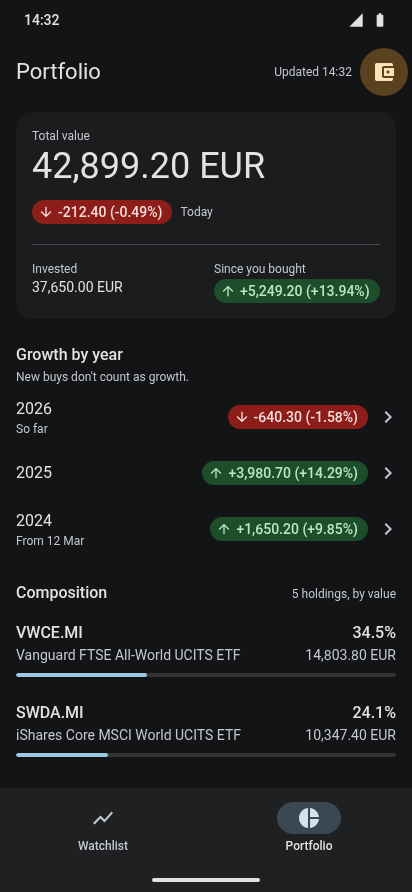
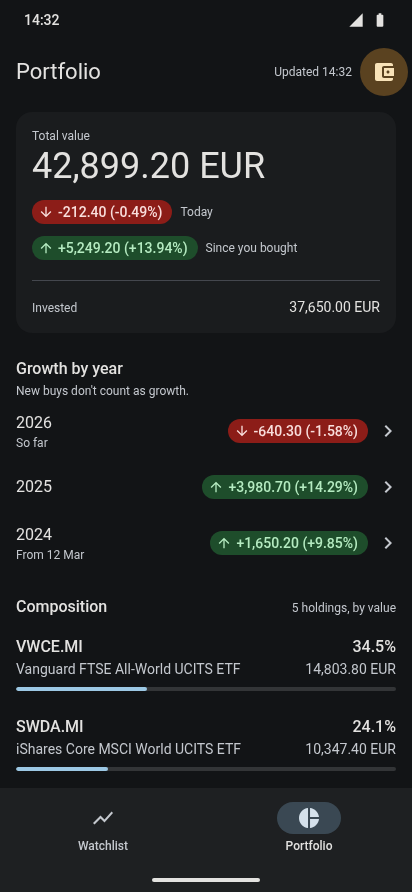
Show both changes on the total card as full-width lines (decision 0053)
The "Since you bought" badge wrapped beside "Invested" on common phone widths.
PortfolioSummary rev 4, the five frames using it re-rendered, and a 360dp check frame.

diff --git a/docs/design/doop/components/PortfolioSummary.html b/docs/design/doop/components/PortfolioSummary.html
@@ -1,27 +1,26 @@
 <!--
-  Component: PortfolioSummary (Doop id c9cyps4s3t, rev 3)
-  M4 (decisions 0049, 0050): the total card at the top of the Portfolio tab.
+  Component: PortfolioSummary (Doop id c9cyps4s3t, rev 4)
+  M4 (decisions 0049, 0050, 0053): the total card at the top of the Portfolio tab.
   Props: view private|public = private.
-           private: "Total value" (shares x latest price, summed) in display-small; today's change (slot today, a
-           ChangeBadge with amount and %); then "Invested" (what the shares still held cost, at their averages) and
-           "Since you bought" (slot since: value - invested, amount and %; was "Since avg", renamed by 0050).
-           public: no amounts: "Your portfolio" / the number of holdings (prop holdings), today's and since-you-bought
-           change in % only.
-         freshness fresh|stale = fresh: stale adds a tertiary line under today's change (prop stale, "2 prices stale
+           private: "Total value" (shares x latest price, summed) in display-small; then two full-width change lines,
+           each a ChangeBadge followed by its label: today's change (slot today, amount and %, label "Today") and the
+           change since you bought (slot since: value - invested, amount and %, label "Since you bought"); then a
+           divider and one line "Invested" (label left, amount right). The badges get the card's full width so they
+           never wrap at the normal font size (rev 3 put Invested and Since you bought side by side: the badge wrapped).
+           public: "Your portfolio" / the number of holdings (prop holdings), the same two change lines in % only, no
+           divider and no Invested line.
+         freshness fresh|stale = fresh: stale adds a tertiary line after the change lines (prop stale, "2 prices stale
            since 10:41") when any price in the total is stale.
          value, invested, holdings, stale: text.
-  The "realized" slot is retired (0050) and always hidden: realized gains are one quiet line at the page's bottom.
-  Wrap in a div with 16px side margins.
+  The "realized" slot is retired (0050) and always hidden. Wrap in a div with 16px side margins.
 -->
-<section class="pfs" data-view="private" data-freshness="fresh" aria-label="Portfolio total" style="padding:var(--spacing-md);border-radius:var(--radius-lg);background:var(--color-surface-container-low);font-family:var(--font-sans);color:var(--color-on-surface);font-variant-numeric:tabular-nums;"><p class="pfs-priv" style="font-size:var(--text-body-small);line-height:var(--leading-body-small);color:var(--color-on-surface-variant);">Total value</p><p class="pfs-priv" data-doop-prop="value" style="font-size:var(--text-display-small);line-height:var(--leading-display-small);">42,899.20 EUR</p><p class="pfs-pub" style="font-size:var(--text-body-small);line-height:var(--leading-body-small);color:var(--color-on-surface-variant);">Your portfolio</p><p class="pfs-pub" data-doop-prop="holdings" style="font-size:var(--text-headline-small);line-height:var(--leading-headline-small);">5 holdings</p><div style="display:flex;align-items:center;gap:var(--spacing-sm);margin-top:var(--spacing-sm);min-height:32px;"><span data-doop-slot="today" data-doop-slot-suggest="ChangeBadge"></span><span style="font-size:var(--text-body-small);line-height:var(--leading-body-small);color:var(--color-on-surface-variant);">Today</span></div><p class="pfs-stale" data-doop-prop="stale" style="margin-top:var(--spacing-sm);font-size:var(--text-body-small);line-height:var(--leading-body-small);color:var(--color-tertiary);">2 prices stale since 10:41</p><dl class="pfs-grid" style="margin-top:var(--spacing-md);padding-top:var(--spacing-md);border-top:1px solid var(--color-outline-variant);"><div class="pfs-inv pfs-priv"><dt style="font-size:var(--text-body-small);line-height:var(--leading-body-small);color:var(--color-on-surface-variant);">Invested</dt><dd data-doop-prop="invested" style="font-size:var(--text-body-medium);line-height:var(--leading-body-medium);">37,650.00 EUR</dd></div><div class="pfs-since"><dt style="font-size:var(--text-body-small);line-height:var(--leading-body-small);color:var(--color-on-surface-variant);margin-bottom:2px;">Since you bought</dt><dd data-doop-slot="since" data-doop-slot-suggest="ChangeBadge"></dd></div><div class="pfs-real pfs-priv"><dt style="font-size:var(--text-body-small);line-height:var(--leading-body-small);color:var(--color-on-surface-variant);margin-bottom:2px;">Realized (gross), all years</dt><dd data-doop-slot="realized" data-doop-slot-suggest="ChangeBadge"></dd></div></dl></section>
+<section class="pfs" data-view="private" data-freshness="fresh" aria-label="Portfolio total" style="padding:var(--spacing-md);border-radius:var(--radius-lg);background:var(--color-surface-container-low);font-family:var(--font-sans);color:var(--color-on-surface);font-variant-numeric:tabular-nums;"><p class="pfs-priv" style="font-size:var(--text-body-small);line-height:var(--leading-body-small);color:var(--color-on-surface-variant);">Total value</p><p class="pfs-priv" data-doop-prop="value" style="font-size:var(--text-display-small);line-height:var(--leading-display-small);">42,899.20 EUR</p><p class="pfs-pub" style="font-size:var(--text-body-small);line-height:var(--leading-body-small);color:var(--color-on-surface-variant);">Your portfolio</p><p class="pfs-pub" data-doop-prop="holdings" style="font-size:var(--text-headline-small);line-height:var(--leading-headline-small);">5 holdings</p><div class="pfs-line" style="display:flex;flex-wrap:wrap;align-items:center;column-gap:var(--spacing-sm);margin-top:var(--spacing-sm);min-height:32px;"><span data-doop-slot="today" data-doop-slot-suggest="ChangeBadge"></span><span style="font-size:var(--text-body-small);line-height:var(--leading-body-small);color:var(--color-on-surface-variant);">Today</span></div><div class="pfs-line" style="display:flex;flex-wrap:wrap;align-items:center;column-gap:var(--spacing-sm);margin-top:var(--spacing-xs);min-height:32px;"><span data-doop-slot="since" data-doop-slot-suggest="ChangeBadge"></span><span style="font-size:var(--text-body-small);line-height:var(--leading-body-small);color:var(--color-on-surface-variant);">Since you bought</span></div><p class="pfs-stale" data-doop-prop="stale" style="margin-top:var(--spacing-sm);font-size:var(--text-body-small);line-height:var(--leading-body-small);color:var(--color-tertiary);">2 prices stale since 10:41</p><div class="pfs-inv pfs-priv" style="margin-top:var(--spacing-md);padding-top:var(--spacing-md);border-top:1px solid var(--color-outline-variant);justify-content:space-between;align-items:baseline;gap:var(--spacing-md);"><span style="font-size:var(--text-body-small);line-height:var(--leading-body-small);color:var(--color-on-surface-variant);">Invested</span><span data-doop-prop="invested" style="font-size:var(--text-body-medium);line-height:var(--leading-body-medium);">37,650.00 EUR</span></div><div class="pfs-real" data-doop-slot="realized" data-doop-slot-suggest="ChangeBadge"></div></section>
 <style>
-.pfs p, .pfs dl, .pfs dd { margin: 0; }
-.pfs .pfs-grid { display: grid; grid-template-columns: 1fr 1fr; column-gap: var(--spacing-md); row-gap: var(--spacing-md); grid-template-areas: "inv since"; }
-.pfs .pfs-inv { grid-area: inv; } .pfs .pfs-since { grid-area: since; }
+.pfs p { margin: 0; }
 .pfs .pfs-real { display: none !important; }
 .pfs .pfs-stale, .pfs .pfs-pub { display: none; }
+.pfs .pfs-inv { display: flex; }
 .pfs[data-freshness="stale"] .pfs-stale { display: block; }
 .pfs[data-view="public"] .pfs-priv { display: none; }
 .pfs[data-view="public"] .pfs-pub { display: block; }
-.pfs[data-view="public"] .pfs-grid { grid-template-areas: "since since"; }
 </style>

diff --git a/docs/design/doop/frames/portfolio-360dp.html b/docs/design/doop/frames/portfolio-360dp.html
@@ -1,0 +1,25 @@
+<!doctype html>
+<html>
+<!-- Doop frame "Portfolio · private on a 360dp phone (total card fits)" (N3CkdgAjZg), 360x800. Snapshot: instance ids and
+     the <style data-doop-tokens>/webfonts blocks are omitted; token values are in ../tokens.json, components in
+     ../components/. A check frame (decision 0053): worst-case values on a narrow phone, no badge wraps. -->
+<head><meta charset="utf-8"><style>* { margin: 0; box-sizing: border-box; }</style></head>
+<body style="width:360px;height:800px;position:relative;overflow:hidden;background:var(--color-surface);font-family:var(--font-sans);color:var(--color-on-surface);">
+<doop-use component="StatusBar"></doop-use>
+<doop-use component="TopAppBar" privacy="private" title="Portfolio" stamp="Updated 14:32"></doop-use>
+<main style="display:flex;flex-direction:column;">
+<div style="padding:var(--spacing-sm) var(--spacing-md) 0;">
+<doop-use component="PortfolioSummary" view="private" freshness="stale" stale="2 prices stale since 10:41" value="142,899.20 EUR" invested="124,487.35 EUR"><template slot="today"><doop-use component="ChangeBadge" direction="down" value="-1,078.62 (-0.76%)"></doop-use></template><template slot="since"><doop-use component="ChangeBadge" direction="up" value="+9,999.99 (+99.99%)"></doop-use></template></doop-use>
+</div>
+<section style="padding:var(--spacing-lg) var(--spacing-md) var(--spacing-xs);">
+<h2 style="font-size:var(--text-title-medium);line-height:var(--leading-title-medium);font-weight:var(--font-weight-medium);">Growth by year</h2>
+<p style="margin-top:2px;font-size:var(--text-body-small);line-height:var(--leading-body-small);color:var(--color-on-surface-variant);">New buys don't count as growth.</p>
+</section>
+<doop-use component="YearGrowthRow" view="private" year="2026" note="So far"><template slot="change"><doop-use component="ChangeBadge" direction="up" value="+4,962.10 (+3.62%)"></doop-use></template></doop-use>
+<doop-use component="YearGrowthRow" view="private" year="2025" note=""><template slot="change"><doop-use component="ChangeBadge" direction="up" value="+13,255 (+14.29%)"></doop-use></template></doop-use>
+</main>
+<div style="position:absolute;left:0;right:0;bottom:0;background:var(--color-surface-container);padding-bottom:24px;">
+<doop-use component="NavBar" selected="portfolio"></doop-use>
+<div style="position:absolute;left:0;right:0;bottom:0;height:24px;display:flex;align-items:center;justify-content:center;"><span style="width:108px;height:4px;border-radius:var(--radius-full);background:var(--color-on-surface);"></span></div>
+</div>
+</body></html>

diff --git a/docs/design/doop/SNAPSHOT.md b/docs/design/doop/SNAPSHOT.md
@@ -58,6 +58,7 @@ Canvas: **Lucrometro**, ID `VPv84853nU`. Exported 2026-11-17 by hand, following 
 | `portfolio-empty` | Portfolio · private, empty (no trades yet) | `aJhrd2BqsW` | `frames/portfolio-empty.html`, `.png` |
 | `portfolio-dark` | Portfolio · private (dark) | `rKYy57nDYv` | `frames/portfolio-dark.html`, `.png` |
 | `portfolio-font-130` | Portfolio · private, font 130%, worst case (6-figure total) | `BFc74QOpvX` | `frames/portfolio-font-130.html`, `.png` |
+| `portfolio-360dp` | Portfolio · private on a 360dp phone (total card fits) | `N3CkdgAjZg` | `frames/portfolio-360dp.html`, `.png` |
 
 The details frames (added 2026-11-17, decision 0023) use made-up prices. `details-worst-case` uses stress values
 (a 4-digit price and a large drop) to check that the header row fits; it is not a real quote for RACE.MI.
@@ -118,8 +119,13 @@ built and merged (0050), since the "Screens" page shows the built app. The examp
 self-consistent: the yearly amounts (+1,650.20, +3,980.70, +1,490.40) add up to the gain since you bought (+5,249.20)
 plus the realized gains (+1,872.10); the 2025 detail adds up (26,300.00 + 6,200.00 + 3,980.70 = 36,480.70).
 The holdings' weights are rounded to one decimal and sum to 99.9%. `portfolio-font-130` scales the text tokens by 1.3
-like `position-card-font-130`; there the "Since you bought" badge wraps to two lines, accepted by the owner.
+like `position-card-font-130`; with rev 3 the "Since you bought" badge wrapped there (see below).
 The frame HTML was written from the markup sent to Doop.
+After the build (2026-11-24, decision 0053): the "Since you bought" badge wrapped on the owner's phone, so
+`PortfolioSummary` is rev 4: today's change and the change since you bought are full-width lines (badge, then label),
+and "Invested" is one line below the divider. The PNGs of the five frames that use it were re-rendered (their HTML is
+unchanged); `portfolio-360dp` (360x800, signed off) checks worst-case values on a narrow phone. At 130% the badges no
+longer wrap either.
 
 ## Tokens and components
 

diff --git a/docs/decisions/0053-total-card-change-lines.md b/docs/decisions/0053-total-card-change-lines.md
@@ -1,0 +1,24 @@
+# 0053: Total card shows both changes as full-width lines
+
+Status: accepted (2026-11-24), supersedes the total card layout of 0051
+
+## Context
+In the M4 build (0052) the total card put "Invested" and "Since you bought" side by side under the divider, as the
+frames did; "Invested" already took only its own width. On the owner's phone the "Since you bought" badge still
+wrapped to two lines in the common case. The row is simply too narrow: inside the card a 360dp phone has about
+296dp, and the amount (about 95dp), the gap (24dp) and the badge "+5,249.20 (+13.94%)" (about 167dp) need about 286dp,
+so any narrower screen or larger display size wraps. A 40/60 or 30/70 split would leave the badge even less room.
+
+## Decision
+- **Two change lines**: under the total, today's change and the change since you bought are lines of the same kind,
+  each a `ChangeBadge` followed by its label ("Today", "Since you bought"), with the full card width. The stale line,
+  when shown, comes after them.
+- **Invested**: one line below the divider, the label on the left and the amount on the right.
+- **Public**: the same two lines in % only; no divider and no Invested line.
+- Badges must not wrap at the normal font size on a 360dp phone, even with worst-case values; at larger font sizes
+  wrapping stays acceptable (0051).
+
+## Consequences
+- Doop: `PortfolioSummary` rev 4; the five frames that use it were re-rendered (their HTML is unchanged), and the
+  frame `portfolio-360dp` checks the worst case on a 360dp phone.
+- The build changes only the total card in `PortfolioScreen.kt`; nothing else on the tab moves.
